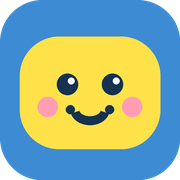
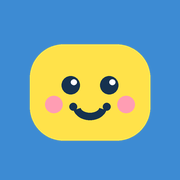
PWA 홈 화면 아이콘: 바탕을 꽉 채운 maskable 판 추가
모서리가 투명한 아이콘은 Android 가 원·둥근 사각형으로 자를 때 작은 파란 네모로 보였다.
바탕을 사각형으로 채우고 얼굴을 안쪽 80% 에 둔 판을 manifest 에 purpose=maskable 로 넣고,
iOS 용 apple-touch-icon 도 같은 꽉 채운 판으로 바꾼다.

diff --git a/scripts/make-icons.py b/scripts/make-icons.py
@@ -85,8 +85,18 @@ def face(size, with_bg=True):
 
 
 def icon(size):
-    """앱 아이콘 = 파란 바탕 + 얼굴"""
+    """브라우저 탭용 아이콘 = 둥근 파란 바탕 + 얼굴 (모서리 투명)"""
     return face(size, with_bg=True)
+
+
+def icon_full(size, scale=0.8):
+    """홈 화면용 아이콘. 바탕을 사각형으로 꽉 채우고(투명 없음) 얼굴은 안쪽 safe zone(80%)에 둔다.
+    Android 는 이 판을 원·둥근 사각형으로 잘라 쓰고(maskable), iOS 는 자기 모서리를 씌운다."""
+    img = Image.new("RGBA", (size, size), ACC)
+    inner = int(size * scale)
+    f = face(inner, with_bg=False)
+    img.paste(f, ((size - inner) // 2, (size - inner) // 2), f)
+    return img.convert("RGB")
 
 
 def og():
@@ -116,7 +126,9 @@ def og():
 if __name__ == "__main__":
     icon(512).save(os.path.join(ROOT, "icon-512.png"))
     icon(192).save(os.path.join(ROOT, "icon-192.png"))
-    icon(180).save(os.path.join(ROOT, "apple-touch-icon.png"))
     icon(32).save(os.path.join(ROOT, "favicon-32.png"))
+    icon_full(512).save(os.path.join(ROOT, "icon-maskable-512.png"))
+    icon_full(192).save(os.path.join(ROOT, "icon-maskable-192.png"))
+    icon_full(180, scale=0.86).save(os.path.join(ROOT, "apple-touch-icon.png"))
     og().save(os.path.join(ROOT, "og.png"), optimize=True)
     print("written:", sorted(os.listdir(ROOT)))
